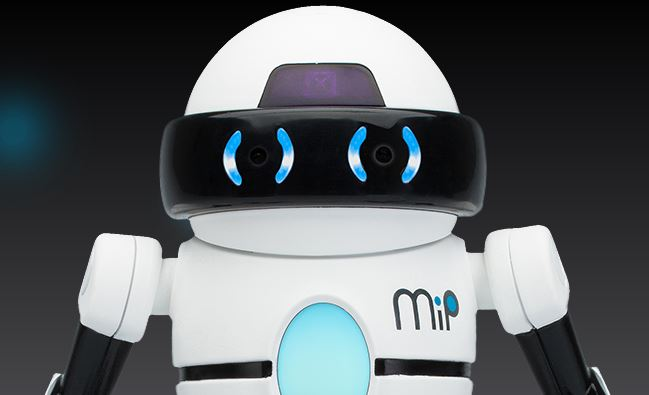
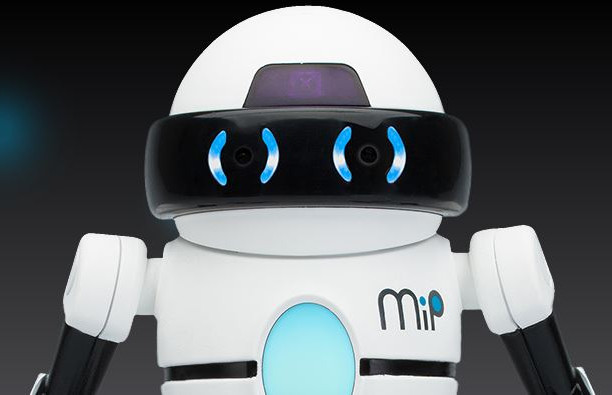
Format portfolio images and update popup modal information

diff --git a/index.html b/index.html
@@ -230,11 +230,11 @@
                  <div class="item-wrap">
 
                     <a href="#modal-01" title="">
-                      <img alt="" src="images/portfolio/makeitstop_1.png">
+                      <img alt="" src="images/portfolio/makeitstop_1.jpg">
                       <div class="overlay">
                         <div class="portfolio-item-meta">
-                          <h5>Coffee</h5>
-                          <p>Illustrration</p>
+                          <h5>Make it Stop!</h5>
+                          <p>A task-based alarm app for iOS and Android</p>
                         </div>
                       </div>
                       <div class="link-icon"><i class="icon-plus"></i></div>
@@ -249,8 +249,8 @@
                       <img alt="" src="images/portfolio/richagram_1.jpg">
                       <div class="overlay">
                         <div class="portfolio-item-meta">
-                          <h5>Coffee</h5>
-                          <p>Illustrration</p>
+                          <h5>Richagram</h5>
+                          <p>Instagram clone</p>
                         </div>
                       </div>
                       <div class="link-icon"><i class="icon-plus"></i></div>
@@ -262,11 +262,11 @@
                  <div class="item-wrap">
 
                     <a href="#modal-03" title="">
-                      <img alt="" src="images/portfolio/jesus_1.jpg">
+                      <img alt="" src="images/portfolio/stockr_1.jpg">
                       <div class="overlay">
                         <div class="portfolio-item-meta">
-                          <h5>Coffee</h5>
-                          <p>Illustrration</p>
+                          <h5>Stockr</h5>
+                          <p>Whole-seller app for stock updates</p>
                         </div>
                       </div>
                       <div class="link-icon"><i class="icon-plus"></i></div>
@@ -278,11 +278,11 @@
                  <div class="item-wrap">
 
                     <a href="#modal-04" title="">
-                      <img alt="" src="images/portfolio/stockr_1.png">
+                      <img alt="" src="images/portfolio/jesus_1.jpg">
                       <div class="overlay">
                         <div class="portfolio-item-meta">
-                          <h5>Coffee</h5>
-                          <p>Illustrration</p>
+                          <h5>BnB Jesus</h5>
+                          <p>AirBnB clone with a stylistic twist</p>
                         </div>
                       </div>
                       <div class="link-icon"><i class="icon-plus"></i></div>
@@ -297,8 +297,8 @@
                       <img alt="" src="images/portfolio/robot_1.jpg">
                       <div class="overlay">
                         <div class="portfolio-item-meta">
-                          <h5>Coffee</h5>
-                          <p>Illustrration</p>
+                          <h5>Bluetooth</h5>
+                          <p>NativeScript app for MiP robot</p>
                         </div>
                       </div>
                       <div class="link-icon"><i class="icon-plus"></i></div>
@@ -310,11 +310,11 @@
                  <div class="item-wrap">
 
                     <a href="#modal-06" title="">
-                      <img alt="" src="images/portfolio/rps_1.png">
+                      <img alt="" src="images/portfolio/rps_1.jpg">
                       <div class="overlay">
                         <div class="portfolio-item-meta">
-                          <h5>Coffee</h5>
-                          <p>Illustrration</p>
+                          <h5>RPS</h5>
+                          <p>A classic game built with Sinatra</p>
                         </div>
                       </div>
                       <div class="link-icon"><i class="icon-plus"></i></div>
@@ -332,142 +332,122 @@
 
          <div id="modal-01" class="popup-modal mfp-hide">
 
-          <img class="scale-with-grid" src="images/portfolio/modals/m-coffee.jpg" alt="" />
+           <img class="scale-with-grid" src="images/portfolio/modals/m-coffee.jpg" alt="" />
 
-          <div class="description-box">
-            <h4>Coffee Cup</h4>
-            <p>Proin gravida nibh vel velit auctor aliquet. Aenean sollicitudin, lorem quis bibendum auctor, nisi elit consequat ipsum, nec sagittis sem nibh id elit.</p>
-               <span class="categories"><i class="fa fa-tag"></i>Branding, Webdesign</span>
-          </div>
+           <div class="description-box">
+             <h4>Make It Stop! Alarm Clock</h4>
+             <p>A cross-platform, task-based alarm app for people who find it hard to wake up in
+               the morning. To stop the alarm, the user must complete a task, answer a question or complete
+               a mini game.
+             </p>
+             <span class="categories"><i class="fa fa-tag"></i>NativeScript, Angular2, TypeScript, JavaScript, CSS, Xcode, Jasmine, Karma</span>
+           </div>
 
-            <div class="link-box">
-               <a href="http://www.behance.net" target="_blank">Details</a>
+           <div class="link-box">
+             <a href="https://github.com/MakeItStop/task-based-alarm" target="_blank">Github</a>
              <a class="popup-modal-dismiss">Close</a>
-            </div>
+           </div>
 
         </div><!-- modal-01 End -->
 
-         <div id="modal-02" class="popup-modal mfp-hide">
+        <div id="modal-02" class="popup-modal mfp-hide">
 
           <img class="scale-with-grid" src="images/portfolio/modals/m-console.jpg" alt="" />
 
           <div class="description-box">
-            <h4>Console</h4>
-            <p>Proin gravida nibh vel velit auctor aliquet. Aenean sollicitudin, lorem quis bibendum auctor, nisi elit consequat ipsum, nec sagittis sem nibh id elit.</p>
-               <span class="categories"><i class="fa fa-tag"></i>Branding, Web Development</span>
+            <h4>Richagram</h4>
+            <p>An instagram clone developed with the Ruby on Rails framework and fully tested with Rspec and Capybara. Images
+               are stored using Amazon Web Services S3 and posts/comments in a PostgreSQL database hosted on Heroku.
+            </p>
+            <span class="categories"><i class="fa fa-tag"></i>Ruby on Rails, AWS, HAML, CSS, Bootstrap, Rspec, Capybara</span>
           </div>
 
-            <div class="link-box">
-               <a href="http://www.behance.net" target="_blank">Details</a>
-             <a class="popup-modal-dismiss">Close</a>
-            </div>
+          <div class="link-box">
+            <a href="https://richagram.herokuapp.com/" target="_blank">Heroku</a>
+            <a href="https://github.com/richo225/richagram" target="_blank">Github</a>
+            <a class="popup-modal-dismiss">Close</a>
+          </div>
 
         </div><!-- modal-02 End -->
 
-         <div id="modal-03" class="popup-modal mfp-hide">
+        <div id="modal-03" class="popup-modal mfp-hide">
 
           <img class="scale-with-grid" src="images/portfolio/modals/m-judah.jpg" alt="" />
 
           <div class="description-box">
-            <h4>Judah</h4>
-            <p>Proin gravida nibh vel velit auctor aliquet. Aenean sollicitudin, lorem quis bibendum auctor, nisi elit consequat ipsum, nec sagittis sem nibh id elit.</p>
-               <span class="categories"><i class="fa fa-tag"></i>Branding</span>
+            <h4>Stockr</h4>
+            <p>A Ruby on Rails application that allows a food wholeseller to update their current stock and
+              easily send their customers an updated list via e-mail.
+            </p>
+            <span class="categories"><i class="fa fa-tag"></i>Ruby on Rails, HTML, CSS, Rspec, Capybara</span>
           </div>
 
-            <div class="link-box">
-               <a href="http://www.behance.net" target="_blank">Details</a>
-             <a class="popup-modal-dismiss">Close</a>
-            </div>
+          <div class="link-box">
+            <a href="https://samed-stockr.herokuapp.com" target="_blank">Heroku</a>
+            <a href="https://github.com/richo225/stockr" target="_blank">Github</a>
+            <a class="popup-modal-dismiss">Close</a>
+          </div>
 
         </div><!-- modal-03 End -->
 
-         <div id="modal-04" class="popup-modal mfp-hide">
+        <div id="modal-04" class="popup-modal mfp-hide">
 
           <img class="scale-with-grid" src="images/portfolio/modals/m-intothelight.jpg" alt="" />
 
           <div class="description-box">
-            <h4>Into the Light</h4>
-            <p>Proin gravida nibh vel velit auctor aliquet. Aenean sollicitudin, lorem quis bibendum auctor, nisi elit consequat ipsum, nec sagittis sem nibh id elit.</p>
-               <span class="categories"><i class="fa fa-tag"></i>Photography</span>
+            <h4>BnB Jesus</h4>
+            <p>An Air BnB clone with a stylistic twist for those needing a place to stay. Built using Ruby/Sinatra
+              and an experimentation with HAML. "Don't be like Mary. There's always room at the inn".
+            </p>
+            <span class="categories"><i class="fa fa-tag"></i>Ruby, Sinatra, HAML, CSS, Bootstrap, Rspec, Capybara</span>
           </div>
 
-            <div class="link-box">
-               <a href="http://www.behance.net" target="_blank">Details</a>
-             <a class="popup-modal-dismiss">Close</a>
-            </div>
-
-        </div><!-- modal-04 End -->
-
-         <div id="modal-05" class="popup-modal mfp-hide">
-
-          <img class="scale-with-grid" src="images/portfolio/modals/m-farmerboy.jpg" alt="" />
-
-          <div class="description-box">
-            <h4>Farmer Boy</h4>
-            <p>Proin gravida nibh vel velit auctor aliquet. Aenean sollicitudin, lorem quis bibendum auctor, nisi elit consequat ipsum, nec sagittis sem nibh id elit.</p>
-               <span class="categories"><i class="fa fa-tag"></i>Branding, Webdesign</span>
+          <div class="link-box">
+            <a href="http://bnb-jesus.herokuapp.com" target="_blank">Heroku</a>
+            <a href="https://github.com/richo225/jesus_bnb" target="_blank">Github</a>
+            <a class="popup-modal-dismiss">Close</a>
           </div>
 
-            <div class="link-box">
-               <a href="http://www.behance.net" target="_blank">Details</a>
-             <a class="popup-modal-dismiss">Close</a>
-            </div>
+       </div><!-- modal-04 End -->
 
-        </div><!-- modal-05 End -->
+       <div id="modal-05" class="popup-modal mfp-hide">
 
-         <div id="modal-06" class="popup-modal mfp-hide">
+         <img class="scale-with-grid" src="images/portfolio/modals/m-farmerboy.jpg" alt="" />
 
-          <img class="scale-with-grid" src="images/portfolio/modals/m-girl.jpg" alt="" />
+         <div class="description-box">
+           <h4>Bluetooth</h4>
+           <p>A mobile app that lets the user send and receive commands to and from a MiP robot via web
+              bluetooth. This was built using the NativeScript framework (Angular 2 & JavaScript) during a one day workshop.</p>
+           <span class="categories"><i class="fa fa-tag"></i>NativeScript, Angular2, TypeScript, JavaScript, CSS</span>
+         </div>
 
-          <div class="description-box">
-            <h4>Girl</h4>
-            <p>Proin gravida nibh vel velit auctor aliquet. Aenean sollicitudin, lorem quis bibendum auctor, nisi elit consequat ipsum, nec sagittis sem nibh id elit.</p>
-               <span class="categories"><i class="fa fa-tag"></i>Photography</span>
-          </div>
+         <div class="link-box">
+           <a href="https://github.com/richo225/bluetooth-robot" target="_blank">Github</a>
+           <a class="popup-modal-dismiss">Close</a>
+         </div>
 
-            <div class="link-box">
-               <a href="http://www.behance.net" target="_blank">Details</a>
-             <a class="popup-modal-dismiss">Close</a>
-            </div>
+       </div><!-- modal-05 End -->
 
-        </div><!-- modal-06 End -->
+       <div id="modal-06" class="popup-modal mfp-hide">
 
-         <div id="modal-07" class="popup-modal mfp-hide">
+         <img class="scale-with-grid" src="images/portfolio/modals/m-girl.jpg" alt="" />
 
-          <img class="scale-with-grid" src="images/portfolio/modals/m-origami.jpg" alt="" />
+         <div class="description-box">
+           <h4>Rock Paper Scissors</h4>
+           <p>My first ever web application that lets the Makers Academy Marketing Array ( MAMA ) play the classic game of rock, paper, scissors
+              with the computer. Built using Ruby/Sinatra and fully tested with Rspec and Capybara. </p>
+           <span class="categories"><i class="fa fa-tag"></i>Ruby, Sinatra, HTML5, CSS3, Rspec, Capybara</span>
+         </div>
 
-          <div class="description-box">
-            <h4>Origami</h4>
-            <p>Proin gravida nibh vel velit auctor aliquet. Aenean sollicitudin, lorem quis bibendum auctor, nisi elit consequat ipsum, nec sagittis sem nibh id elit.</p>
-               <span class="categories"><i class="fa fa-tag"></i>Branding, Illustration</span>
-          </div>
+         <div class="link-box">
+           <a href="https://salty-anchorage-23003.herokuapp.com" target="_blank">Heroku</a>
+           <a href="https://github.com/richo225/rps-challenge" target="_blank">Github</a>
+           <a class="popup-modal-dismiss">Close</a>
+         </div>
 
-            <div class="link-box">
-               <a href="http://www.behance.net" target="_blank">Details</a>
-             <a class="popup-modal-dismiss">Close</a>
-            </div>
+       </div><!-- modal-06 End -->
 
-        </div><!-- modal-07 End -->
-
-         <div id="modal-08" class="popup-modal mfp-hide">
-
-          <img class="scale-with-grid" src="images/portfolio/modals/m-retrocam.jpg" alt="" />
-
-          <div class="description-box">
-            <h4>Retrocam</h4>
-            <p>Proin gravida nibh vel velit auctor aliquet. Aenean sollicitudin, lorem quis bibendum auctor, nisi elit consequat ipsum, nec sagittis sem nibh id elit.</p>
-               <span class="categories"><i class="fa fa-tag"></i>Webdesign, Photography</span>
-          </div>
-
-            <div class="link-box">
-               <a href="http://www.behance.net" target="_blank">Details</a>
-             <a class="popup-modal-dismiss">Close</a>
-            </div>
-
-        </div><!-- modal-01 End -->
-
-
-      </div> <!-- row End -->
+     </div> <!-- row End -->
 
    </section> <!-- Portfolio Section End-->
 

diff --git a/css/layout.css b/css/layout.css
@@ -425,7 +425,11 @@ ul#nav li.current a { color: #F06000; }
 }
 
 /* Portfolio Content */
-#portfolio-wrapper .columns { margin-bottom: 36px; }
+#portfolio-wrapper .columns {
+  margin-bottom: 15px;
+  padding: 0 8px;
+ }
+
 .portfolio-item .item-wrap {
    background: #fff;
    overflow: hidden;
@@ -547,13 +551,14 @@ ul#nav li.current a { color: #F06000; }
 }
 .popup-modal .link-box a {
    color: #fff;
+   margin-right: 24px;
   font: 11px/21px 'opensans-bold', sans-serif;
   text-transform: uppercase;
    letter-spacing: 3px;
    cursor: pointer;
 }
 .popup-modal a:hover {	color: #00CCCC; }
-.popup-modal a.popup-modal-dismiss { margin-left: 24px; }
+.popup-modal a.popup-modal-dismiss { text-align: center; }
 
 
 /* fadein/fadeout effect for modal popup
